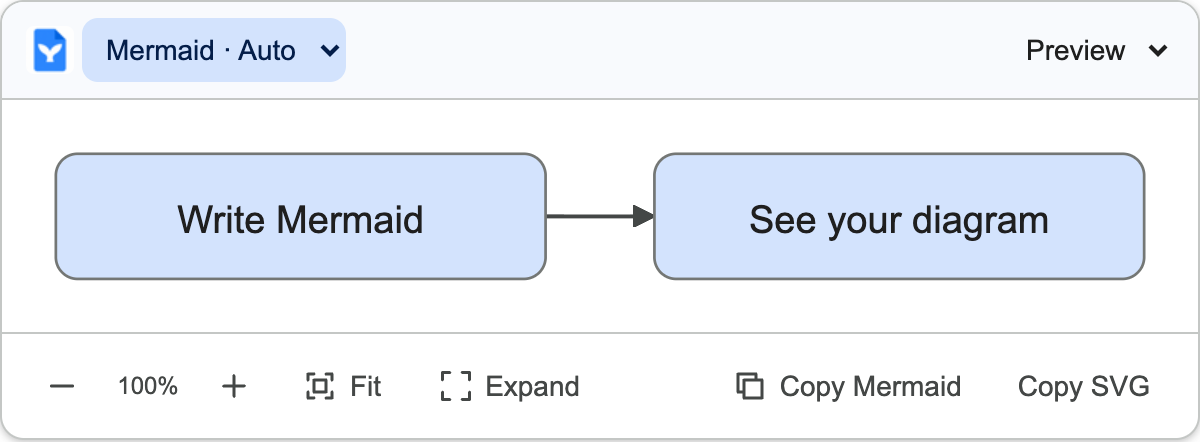
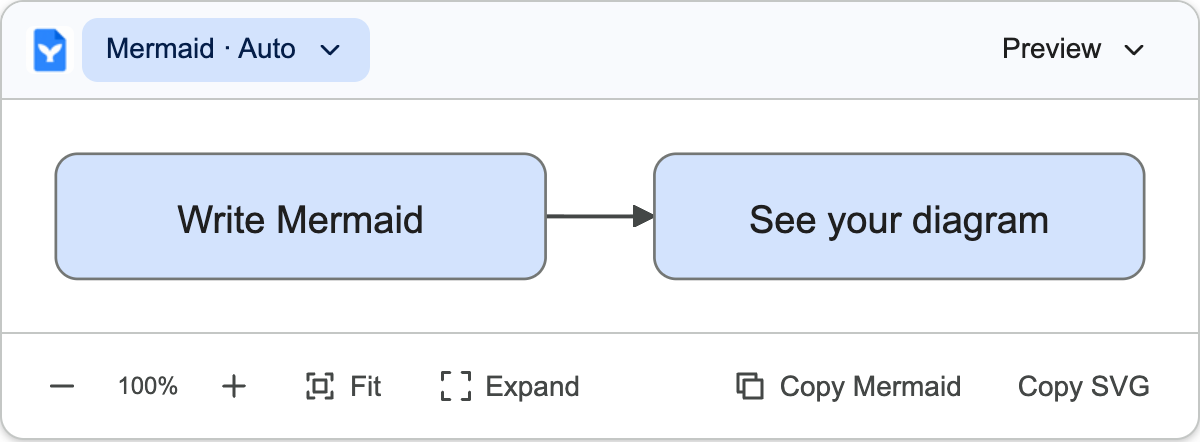
fix: refine dropdown spacing and prepare 0.1.0 release

Changed region(s): [[0.0925, 0.0882, 0.2467, 0.1471], [0.8325, 0.0882, 0.9867, 0.1471], [0.2775, 0.0294, 0.3083, 0.2059]]

diff --git a/tests/e2e/extension.spec.ts b/tests/e2e/extension.spec.ts
@@ -1,7 +1,17 @@
-import { test, expect, chromium } from '@playwright/test';
+import { test, expect, chromium, type Locator } from '@playwright/test';
 import path from 'node:path';
 import os from 'node:os';
 import { mkdtemp, rm } from 'node:fs/promises';
+async function expectSelectSpacing(control: Locator) {
+  const select = control.locator('select');
+  const arrow = control.locator('.select-chevron');
+  const box = (await select.boundingBox())!;
+  const chevron = (await arrow.boundingBox())!;
+  expect(box.x + box.width - chevron.x - chevron.width).toBeCloseTo(12, 0);
+  expect(await select.evaluate(el => getComputedStyle(el).paddingRight)).toBe('36px');
+  expect(await arrow.evaluate(el => getComputedStyle(el).pointerEvents)).toBe('none');
+}
+
 test('built extension renders, preserves valid preview, follows edits and removes blocks', async () => {
   const profile = await mkdtemp(path.join(os.tmpdir(), 'gdm-e2e-'));
   const extension = path.resolve('.output/chrome-mv3');
@@ -19,6 +29,8 @@ test('built extension renders, preserves valid preview, follows edits and remove
     const logo = page.locator('google-docs-mermaid').locator('.block-logo');
     await expect(logo).toBeVisible();
     expect(await logo.evaluate((el: HTMLImageElement) => el.naturalWidth)).toBe(32);
+    await expectSelectSpacing(page.locator('.block-mode'));
+    await expectSelectSpacing(page.locator('.view-select'));
     if (process.env.UPDATE_SCREENSHOTS) await page.locator('.diagram').screenshot({ path: 'docs/assets/diagram-light.png' });
     const valid = await preview.innerHTML();
     await page.locator('pre[data-code-block]').evaluate(el => { el.textContent = 'graph LR\nA -->'; });
@@ -46,6 +58,7 @@ test('built extension renders, preserves valid preview, follows edits and remove
     const popup = await context.newPage();
     await popup.goto(`${origin}/popup.html`);
     await expect(popup.getByRole('switch', { name: 'Diagram rendering' })).toBeEnabled();
+    await expectSelectSpacing(popup.locator('.select-control'));
     const popupLogo = popup.locator('.brand-logo');
     expect(await popupLogo.evaluate((el: HTMLImageElement) => el.naturalWidth)).toBe(128);
     await popup.getByLabel('Theme', { exact: true }).selectOption('light');

diff --git a/src/components/DiagramBlock.tsx b/src/components/DiagramBlock.tsx
@@ -1,6 +1,7 @@
 import { useEffect, useRef, useState } from 'react';
 import { browser } from 'wxt/browser';
 import { Icon } from './Icon';
+import { Select } from './Select';
 import type { CodeBlock } from '../docs/adapter';
 import { detectCandidate } from '../mermaid/detector';
 import { renderMermaid } from '../mermaid/renderer';
@@ -69,15 +70,15 @@ export function DiagramBlock({ block, preferences, dark }: { block: CodeBlock; p
     style={expanded ? undefined : { top: view === 'code' || !allowed ? Math.max(0, top - 68) : top, left, width }}>
     <header>
       <img className="block-logo" src={browser.runtime.getURL('/icons/32.png')} alt="" />
-      <select aria-label="Block mode" value={mode} onChange={e => {
+      <Select className="block-mode" aria-label="Block mode" value={mode} onChange={e => {
         const next = e.target.value;
         setMode(next); setView(next === 'code' || next === 'disabled' ? 'code' : 'preview');
       }}>
         <option value="auto">Mermaid · Auto</option><option value="mermaid">Mermaid</option><option value="code">Code</option><option value="disabled">Never render</option>
-      </select>
-      <select className="view-select" aria-label="View" value={view} onChange={e => setView(e.target.value)}>
+      </Select>
+      <Select className="view-select" aria-label="View" value={view} onChange={e => setView(e.target.value)}>
         <option value="preview">Preview</option><option value="split">Split</option><option value="code">Code</option>
-      </select>
+      </Select>
       {busy && <span className="render-status" role="status">Rendering…</span>}
       {expanded && <button className="icon-button" aria-label="Close expanded viewer" title="Close" onClick={() => setExpanded(false)}><Icon name="close" /></button>}
     </header>

diff --git a/src/entrypoints/popup/Popup.tsx b/src/entrypoints/popup/Popup.tsx
@@ -1,6 +1,7 @@
 import { useEffect, useState } from 'react';
 import { browser } from 'wxt/browser';
 import { defaults, readPreferences, documentKey, type Preferences } from '../../state/preferences';
+import { Select } from '../../components/Select';
 import { designTokenCss } from '../../styles/design-tokens';
 
 function SettingSwitch({ label, description, checked, disabled, onChange }: {
@@ -65,7 +66,7 @@ export function Popup() {
       <SettingSwitch label="Diagram rendering" description="Show Mermaid previews in your documents" checked={prefs.enabled} disabled={disabled} onChange={value => void update({ ...prefs, enabled: value })} />
       <SettingSwitch label="Auto-detect Mermaid" description="Recognize diagrams in unlabeled code blocks" checked={prefs.autoDetect} disabled={disabled} onChange={value => void update({ ...prefs, autoDetect: value })} />
       <label className="setting-row"><span className="setting-copy"><span className="setting-title">Theme</span><span className="setting-description">Auto follows your device appearance</span></span>
-        <select aria-label="Theme" value={prefs.theme} disabled={disabled} onChange={e => void update({ ...prefs, theme: e.target.value as Preferences['theme'] })}><option value="auto">Auto</option><option value="light">Light</option><option value="dark">Dark</option></select>
+        <Select aria-label="Theme" value={prefs.theme} disabled={disabled} onChange={e => void update({ ...prefs, theme: e.target.value as Preferences['theme'] })}><option value="auto">Auto</option><option value="light">Light</option><option value="dark">Dark</option></Select>
       </label>
     </section>
     {key && <section className="settings-section" aria-label="Current document"><h2>This document</h2>

diff --git a/src/entrypoints/content.tsx b/src/entrypoints/content.tsx
@@ -7,6 +7,7 @@ import type { CodeBlock } from '../docs/adapter';
 import { DiagramBlock } from '../components/DiagramBlock';
 import { defaults, documentKey, readPreferences, type Preferences } from '../state/preferences';
 import styles from '../styles/extension.css?inline';
+import selectStyles from '../styles/select.css?inline';
 import { designTokenCss } from '../styles/design-tokens';
 
 export function Overlay() {
@@ -45,7 +46,7 @@ export default defineContentScript({
     const host = document.createElement('google-docs-mermaid');
     host.style.cssText = 'position:fixed;inset:0;pointer-events:none;z-index:2147483000';
     const shadow = host.attachShadow({ mode: 'open' });
-    const style = document.createElement('style'); style.textContent = designTokenCss + styles; shadow.append(style);
+    const style = document.createElement('style'); style.textContent = designTokenCss + styles + selectStyles; shadow.append(style);
     const container = document.createElement('div'); shadow.append(container);
     document.body.append(host);
     const root = createRoot(container); root.render(<Overlay />);

diff --git a/src/styles/extension.css b/src/styles/extension.css
@@ -21,7 +21,8 @@ button:focus-visible, select:focus-visible { outline: 2px solid var(--md-sys-col
 select { border: 0; border-radius: var(--gdm-radius-small); min-height: 32px; padding: 4px 8px;
   background: transparent; max-width: 100%; }
 select:hover { background: var(--md-sys-color-surface-container); }
-header select:first-of-type { color: var(--md-sys-color-on-primary-container); background: var(--md-sys-color-primary-container); border-color: transparent; }
+.block-mode { color: var(--md-sys-color-on-primary-container); }
+.block-mode select { color: inherit; background: var(--md-sys-color-primary-container); border-color: transparent; }
 .icon { width: 18px; height: 18px; flex: none; stroke-width: var(--gdm-icon-line-width); }
 .icon-button { width: 36px; padding: 0; }
 .canvas { overflow: auto; padding: 16px; max-height: 50vh; min-height: 80px; }

diff --git a/src/components/Select.tsx b/src/components/Select.tsx
@@ -1,0 +1,11 @@
+import type { SelectHTMLAttributes } from 'react';
+
+/** Keep native keyboard and menu behavior with consistent chevron spacing. */
+export function Select({ className = '', children, ...props }: SelectHTMLAttributes<HTMLSelectElement>) {
+  return <span className={`select-control ${className}`}>
+    <select {...props}>{children}</select>
+    <svg className="select-chevron" width="16" height="16" viewBox="0 0 24 24" fill="none" stroke="currentColor" strokeWidth="2" strokeLinecap="round" strokeLinejoin="round" aria-hidden="true" focusable="false">
+      <path d="m6 9 6 6 6-6" />
+    </svg>
+  </span>;
+}

diff --git a/src/styles/select.css b/src/styles/select.css
@@ -1,0 +1,4 @@
+.select-control { position: relative; display: inline-flex; max-width: 100%; flex-shrink: 0; vertical-align: middle; }
+.select-control select { appearance: none; -webkit-appearance: none; padding-inline: 12px 36px; width: 100%; min-width: 0; }
+.select-chevron { position: absolute; inset-inline-end: 12px; top: 50%; transform: translateY(-50%); width: 16px; height: 16px; pointer-events: none; }
+.select-control:has(select:disabled) .select-chevron { opacity: .38; }

diff --git a/src/entrypoints/popup/main.tsx b/src/entrypoints/popup/main.tsx
@@ -1,5 +1,6 @@
 import { createRoot } from 'react-dom/client';
 import { Popup } from './Popup';
 import '../../styles/popup.css';
+import '../../styles/select.css';
 
 createRoot(document.getElementById('root')!).render(<Popup />);

diff --git a/README.md b/README.md
@@ -7,7 +7,7 @@
 <p align="center">Local Mermaid previews. Your source stays in the document.</p>
 
 <p align="center">
-  <a href="docs/roadmap.md"><img src="docs/assets/badges/status.svg" alt="Alpha" /></a>
+  <a href="https://github.com/leracherry/google-docs-mermaid/releases/tag/v0.1.0"><img src="docs/assets/badges/status.svg" alt="Release 0.1.0" /></a>
   <a href="docs/getting-started.md"><img src="docs/assets/badges/chrome.svg" alt="Chrome MV3" /></a>
   <a href="https://github.com/leracherry/google-docs-mermaid/actions/workflows/ci.yml"><img src="docs/assets/badges/ci.svg" alt="GitHub Actions" /></a>
   <a href="LICENSE"><img src="docs/assets/badges/license.svg" alt="MIT license" /></a>
@@ -20,7 +20,7 @@
   <a href="CONTRIBUTING.md">Contribute</a>
 </p>
 
-> **Developer alpha:** native Google Docs canvas integration is still pending. The screenshots and tests use DOM-backed fixtures.
+**Supported surface:** DOM-backed code blocks on Docs document pages. Native canvas code blocks are outside this release’s scope. Screenshots show the extension’s demo fixtures.
 
 <p align="center">
   <img src="docs/assets/diagram-shapes.png" width="650" alt="Mermaid flowchart with inline preview, zoom, expand, and copy controls" />
@@ -63,7 +63,7 @@ pnpm exec playwright install chromium
 pnpm test:e2e
 ```
 
-See [Development](docs/development.md) for fixture testing, screenshots, and packaging. The latest release predates the styling on `main`; repository access is required while the project is private.
+See [Development](docs/development.md) for fixture testing, screenshots, and packaging. Download [v0.1.0](https://github.com/leracherry/google-docs-mermaid/releases/tag/v0.1.0) for the current release. Repository access is required while the project is private.
 
 ## Contribute
 

diff --git a/docs/getting-started.md b/docs/getting-started.md
@@ -2,7 +2,7 @@
 
 [Documentation](README.md) · [Project overview](../README.md)
 
-> This is a developer alpha. Native Google Docs canvas extraction and native Markdown-file integration are pending. Installing it may show no previews in a standard Docs document.
+**Supported surface:** DOM-backed code blocks on Docs document pages. Native canvas blocks and native Markdown-file integration are outside the scope of v0.1.0.
 
 ## Install
 
@@ -12,7 +12,7 @@
 4. Select **Load unpacked** and choose the folder containing `manifest.json`.
 5. Pin **Mermaid for Google Docs** in Chrome's extension menu.
 
-The latest published release, `0.1.0-alpha.2`, predates the current branding and design system. Use a main CI artifact or a [local build](development.md#local-setup) to try the current UI. There is no Chrome Web Store listing.
+Download [v0.1.0](https://github.com/leracherry/google-docs-mermaid/releases/tag/v0.1.0) for the current UI and renderer. Releases are installed through Chrome’s **Load unpacked** option; Chrome Web Store distribution is a separate roadmap item.
 
 ## Views and block modes
 
@@ -48,7 +48,7 @@ On a supported active Docs tab, the popup also offers **Enable for this document
 
 | Symptom | What to check |
 | --- | --- |
-| No preview in native Docs | Canvas source extraction is not implemented yet |
+| No preview in native Docs | This release supports DOM-backed code blocks; native canvas blocks are outside its scope |
 | No preview on a supported DOM-backed block | Enable rendering, use valid Mermaid or an explicit fence, and keep the block visible |
 | Syntax error or an old diagram | Fix the source; the previous valid render is retained while syntax is invalid |
 | Copy fails | Retry from the copy button and check browser clipboard policy |

diff --git a/docs/releases/v0.1.0.md b/docs/releases/v0.1.0.md
@@ -1,0 +1,24 @@
+# Mermaid for Google Docs 0.1.0
+
+Local Mermaid rendering with Workspace-inspired controls, light/dark themes and source-preserving previews.
+
+## Included
+
+- Preview, Split and Code views, zoom, expanded viewing, and source/SVG copying.
+- Global preferences and per-document rendering controls.
+- Consistent dropdown arrows with comfortable spacing from text and borders.
+- Unique SVG references, stale-render protection, syntax-error recovery and viewport-aware rendering.
+- Input size limits, SVG sanitization and early rejection of external-resource syntax.
+- Updated dependencies, MIT license, documentation and high-resolution screenshots.
+
+## Install
+
+Download `google-docs-mermaid-0.1.0-chrome.zip` below and extract it. Open `chrome://extensions`, enable **Developer mode**, choose **Load unpacked**, and select the extracted folder containing `manifest.json`.
+
+## Supported surface
+
+Version 0.1.0 supports DOM-backed code blocks on Docs document pages. Native Google Docs canvas blocks are outside this release’s scope; native integration is tracked in the project roadmap. Distribution is through the GitHub ZIP, with Chrome Web Store publishing tracked separately.
+
+## Checks
+
+The release pipeline runs dependency auditing, documentation checks, TypeScript checks, 46 unit tests and 11 built-extension browser tests, including 1/10/50/100-block lifecycle fixtures. Screenshots use DOM-backed demo documents.

diff --git a/docs/development.md b/docs/development.md
@@ -39,7 +39,7 @@ Coverage includes source edits, error recovery, view changes, focus containment,
 
 Unit tests separately cover render cancellation/debounce, queue/cache behavior, input limits and sanitization, settings validation/save failures, observer cleanup, and release tag validation. `test-results/results.json` records browser results and fixture timings. These timings measure synthetic lifecycle scenarios, not full rendering of 100 complex diagrams.
 
-These tests verify the extension pipeline. They do not establish compatibility with the native Docs canvas editor.
+The automated suite targets DOM-backed document surfaces. Native canvas integration has its own M0 acceptance criteria in the roadmap.
 
 ## Screenshots
 
@@ -60,7 +60,7 @@ To install an artifact from a successful run, download `chrome-extension`, extra
 
 ## Releases
 
-The latest published release is `v0.1.0-alpha.2`. Main includes newer branding and design changes; see the [changelog](../CHANGELOG.md).
+The current release is `v0.1.0`, including the shared design system, dropdown spacing, rendering fixes and expanded test suite. See the [release notes](releases/v0.1.0.md) and [changelog](../CHANGELOG.md).
 
 To publish a new release:
 
